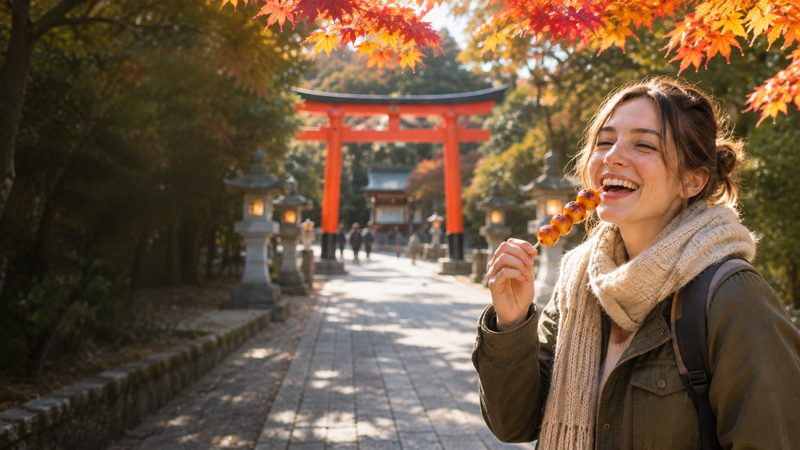
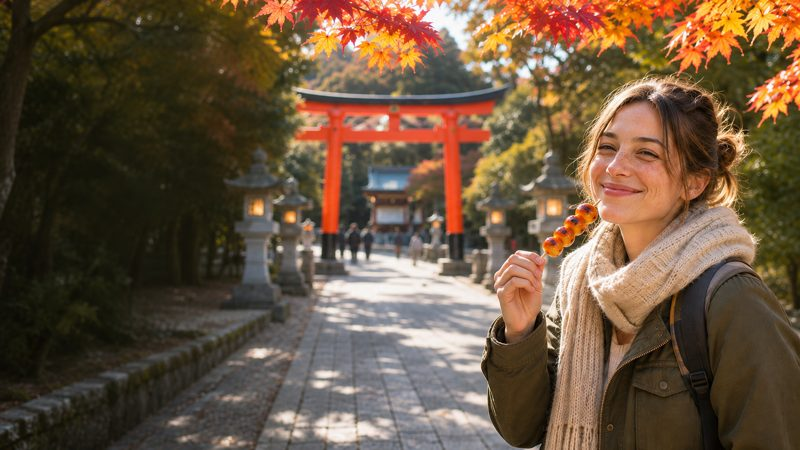
英語版トップ画像を口を閉じた笑顔の版に差し替え(アッキー採用 2026-11-28 13:24)
Claude-Session: https://claude.ai/code/session_01WnJ4nPmu7YrbYzHH9VRETd

diff --git a/en-food-p1/index.html b/en-food-p1/index.html
@@ -36,7 +36,7 @@
 </header>
 
 <header class="ed-hero ed-hero-b ed-hero-p1">
-  <picture><source media="(max-width: 700px)" type="image/webp" srcset="../assets/img/edition/monzen/face1-v-640.webp 640w, ../assets/img/edition/monzen/face1-v-941.webp 941w" sizes="100vw"><source media="(max-width: 700px)" srcset="../assets/img/edition/monzen/face1-v-941.jpg" sizes="100vw"><source type="image/webp" srcset="../assets/img/edition/monzen/face1-800.webp 800w, ../assets/img/edition/monzen/face1-1672.webp 1672w" sizes="100vw"><img src="../assets/img/edition/monzen/face1-1672.jpg" alt="A traveler smiling and enjoying a local snack on a shrine approach" width="1672" height="941"></picture>
+  <picture><source media="(max-width: 700px)" type="image/webp" srcset="../assets/img/edition/monzen/face1-v-640.webp 640w, ../assets/img/edition/monzen/face1-v-941.webp 941w" sizes="100vw"><source media="(max-width: 700px)" srcset="../assets/img/edition/monzen/face1-v-941.jpg" sizes="100vw"><source type="image/webp" srcset="../assets/img/edition/monzen/face1-800.webp 800w, ../assets/img/edition/monzen/face1-1672.webp 1672w" sizes="100vw"><img src="../assets/img/edition/monzen/face1-1672.jpg" alt="A traveler smiling with freshly grilled mitarashi dango on a shrine approach" width="1672" height="941"></picture>
   <div class="ed-hero-text">
     <h1>Japan's sacred places —<br> and the local bite after</h1>
     <p>Shrines and temples, and the old shops at their gates. We checked that each shop still serves it.</p>

diff --git a/en/index.html b/en/index.html
@@ -43,7 +43,7 @@
 </header>
 
 <header class="ed-hero ed-hero-b ed-hero-p1">
-  <picture><source media="(max-width: 700px)" type="image/webp" srcset="../assets/img/edition/monzen/face1-v-640.webp 640w, ../assets/img/edition/monzen/face1-v-941.webp 941w" sizes="100vw"><source media="(max-width: 700px)" srcset="../assets/img/edition/monzen/face1-v-941.jpg" sizes="100vw"><source type="image/webp" srcset="../assets/img/edition/monzen/face1-800.webp 800w, ../assets/img/edition/monzen/face1-1672.webp 1672w" sizes="100vw"><img src="../assets/img/edition/monzen/face1-1672.jpg" alt="A traveler smiling and enjoying a local snack on a shrine approach" width="1672" height="941"></picture>
+  <picture><source media="(max-width: 700px)" type="image/webp" srcset="../assets/img/edition/monzen/face1-v-640.webp 640w, ../assets/img/edition/monzen/face1-v-941.webp 941w" sizes="100vw"><source media="(max-width: 700px)" srcset="../assets/img/edition/monzen/face1-v-941.jpg" sizes="100vw"><source type="image/webp" srcset="../assets/img/edition/monzen/face1-800.webp 800w, ../assets/img/edition/monzen/face1-1672.webp 1672w" sizes="100vw"><img src="../assets/img/edition/monzen/face1-1672.jpg" alt="A traveler smiling with freshly grilled mitarashi dango on a shrine approach" width="1672" height="941"></picture>
   <div class="ed-hero-text">
     <h1>Japan's sacred places —<br> and the local bite after</h1>
     <p>Shrines and temples, and the old shops at their gates. We checked that each shop still serves it.</p>

diff --git a/scripts/build_edition.js b/scripts/build_edition.js
@@ -374,7 +374,7 @@ function homePage() {
     // b:後ろ姿の絵 / p1〜p3:顔の見える旅行者の絵(縦長の絵があればスマホ用に使う)
     const hi = HERO === 'b' ? 'bite' : 'face' + HERO.slice(1);
     const hasV = fs.existsSync(r('assets/img/edition/monzen/' + hi + '-v-941.jpg'));
-    const alt = HERO === 'b' ? 'A traveler holding freshly grilled mitarashi dango on a shrine approach' : 'A traveler smiling and enjoying a local snack on a shrine approach';
+    const alt = HERO === 'b' ? 'A traveler holding freshly grilled mitarashi dango on a shrine approach' : 'A traveler smiling with freshly grilled mitarashi dango on a shrine approach';
     hero = `<header class="ed-hero ed-hero-b ed-hero-${HERO}">
   <picture>${hasV ? `<source media="(max-width: 700px)" type="image/webp" srcset="${mz}${hi}-v-640.webp 640w, ${mz}${hi}-v-941.webp 941w" sizes="100vw"><source media="(max-width: 700px)" srcset="${mz}${hi}-v-941.jpg" sizes="100vw">` : ''}<source type="image/webp" srcset="${mz}${hi}-800.webp 800w, ${mz}${hi}-1672.webp 1672w" sizes="100vw"><img src="${mz}${hi}-1672.jpg" alt="${alt}" width="1672" height="941"></picture>
   ${heroText}
